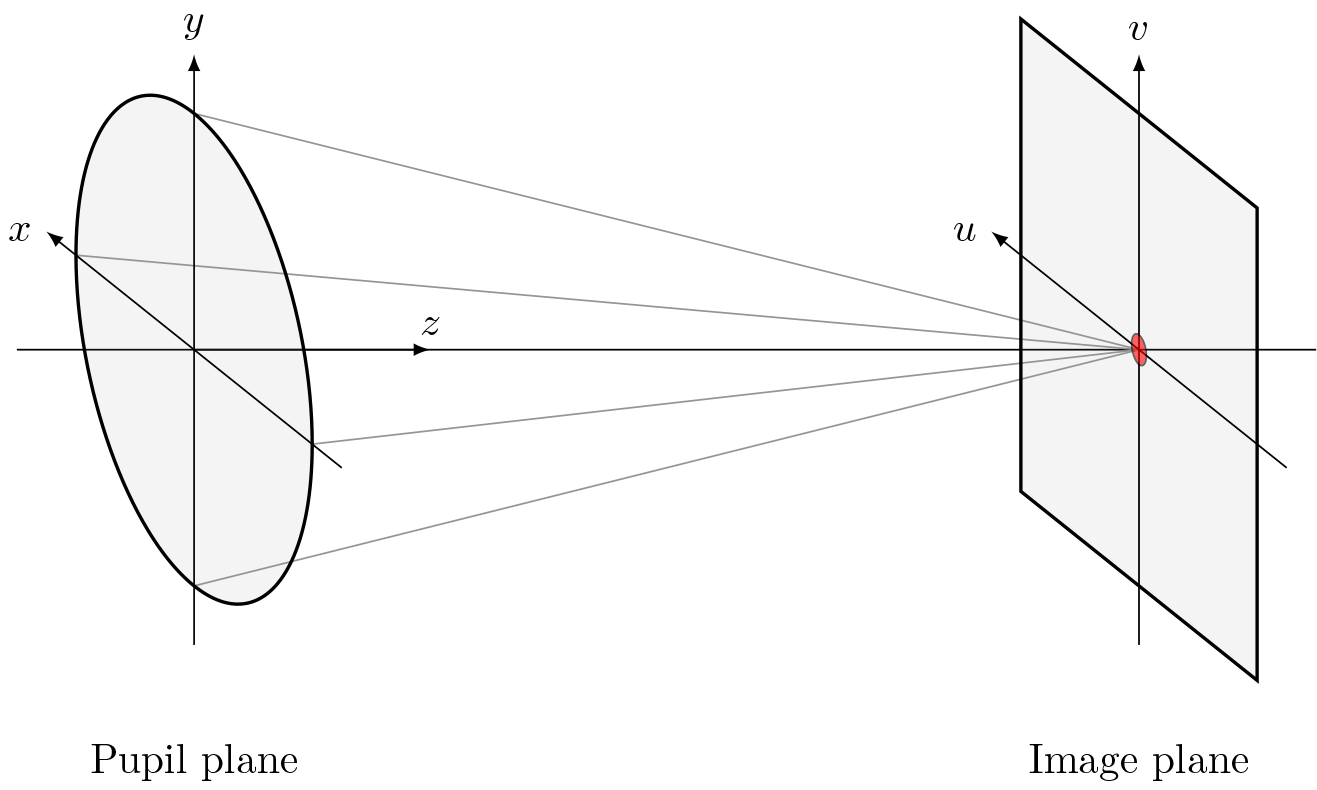
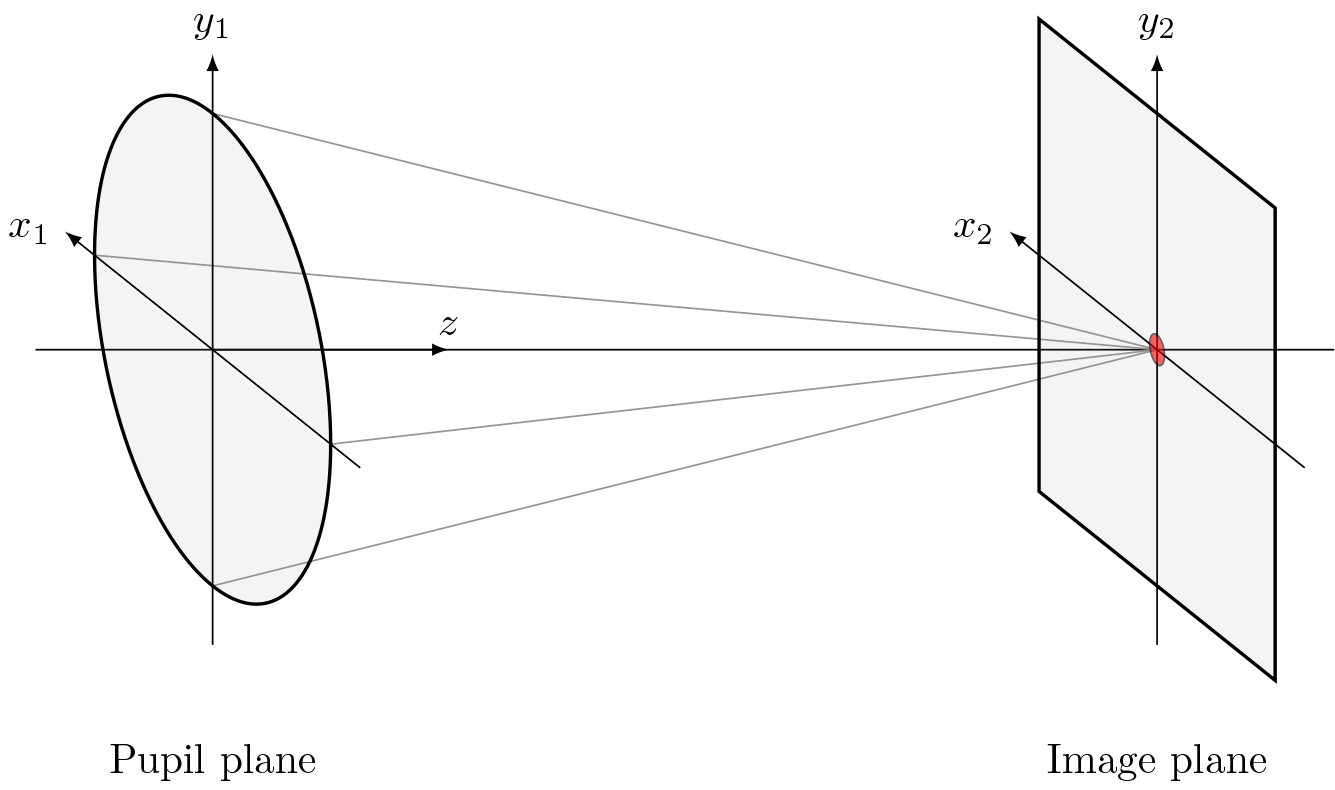
DOC: reorganize User Guide

diff --git a/docs/_img/tikz/coordinate_system.tex b/docs/_img/tikz/coordinate_system.tex
@@ -24,16 +24,16 @@
     \draw[color=gray] (0,2,0) -- (0,0,\zimg);
 
     \draw[thick, fill=gray, fill opacity=0.1] (0,0) circle [radius=2];
-    \draw[latex-] (-2.5,0,0) node [left] {$x$} -- (2.5,0,0);
-    \draw[-latex] (0,-2.5,0) -- (0,2.5,0) node [above] {$y$};
+    \draw[latex-] (-2.5,0,0) node [left] {$x_1$} -- (2.5,0,0);
+    \draw[-latex] (0,-2.5,0) -- (0,2.5,0) node [above] {$y_1$};
 
 
     \node [align=left] at (0,-3.5,0) {Pupil plane};
 
     % Observation plane
     \draw [thick,fill=gray,fill opacity=0.1] (-2,-2,\zimg) -- (2,-2,\zimg) -- (2,2,\zimg) -- (-2,2,\zimg) -- cycle;
-    \draw[latex-] (-2.5,0,\zimg) node [left] {$u$} -- (2.5,0,\zimg);
-    \draw[-latex] (0,-2.5,\zimg) -- (0,2.5,\zimg) node [above] {$v$};
+    \draw[latex-] (-2.5,0,\zimg) node [left] {$x_2$} -- (2.5,0,\zimg);
+    \draw[-latex] (0,-2.5,\zimg) -- (0,2.5,\zimg) node [above] {$y_2$};
 
     \node [align=center] at (0,-3.5,\zimg) {Image plane};
 

diff --git a/docs/user_guide/image_sensors/imaging_artifacts.rst b/docs/user_guide/image_sensors/imaging_artifacts.rst
@@ -4,19 +4,19 @@ Imaging Artifacts
 
 .. currentmodule:: lentil
 
-Lentil's :ref:`convolvable module <api-convolvable>` contains methods for applying various imaging 
-artifacts via convolution. 
+Lentil's :ref:`convolvable module <api-convolvable>` contains methods for applying various imaging
+artifacts via convolution.
 
 .. note::
 
-    To ensure accuracy and avoid introducing ailiasing artifacts, the input data should 
+    To ensure accuracy and avoid introducing ailiasing artifacts, the input data should
     be at least Nyquist sampled.
 
 Smear
 =====
 Smear is used to represent image motion with a relatively low temporal frequency relative
 to integration time. The motion occurs in a slowly varying or fixed direction over one
-integration time. Lentil's :func:`convolvable.smear` method represents smear as a linear 
+integration time. Lentil's :func:`convolvable.smear` method represents smear as a linear
 directional blur over some distance (or number of pixels):
 
 .. code:: pycon
@@ -24,8 +24,8 @@ directional blur over some distance (or number of pixels):
     >>> import lentil
     >>> import matplotlib.pyplot as plt
     >>> psf = ...  # PSF calculation details omitted
-    >>> psf_smear = lentil.convolvable.smear(psf, distance=5e-5, 
-    ...                                      pixelscale=5e-6, 
+    >>> psf_smear = lentil.convolvable.smear(psf, distance=5e-5,
+    ...                                      pixelscale=5e-6,
     ...                                      oversample=3)
     >>> plt.subplot(121), plt.imshow(psf)
     >>> plt.subplot(122), plt.imshow(psf_smear)
@@ -69,7 +69,7 @@ is called, but a static direction can optionally be specified as needed:
 Jitter
 ======
 Jitter is used to represent image motion with a relatively high temporal frequency relative
-to integration time. Lentil's :func:`convolvable.jitter` method represents jitter with a 
+to integration time. Lentil's :func:`convolvable.jitter` method represents jitter with a
 Gaussian blur operation. Note this approach is only valid if the motion occurs randomly in all
 directions during one integration time.
 
@@ -86,7 +86,7 @@ directions during one integration time.
     :width: 500px
 
 If the jitter direction is not sufficiently random during a typical integration time, a timeseries
-should be used instead. Note this will have a major impact on propagation performance but will 
+should be used instead. Note this will have a major impact on propagation performance but will
 provide the most accurate results.
 
 Pixel MTF
@@ -95,8 +95,8 @@ A focal plane array samples a continuous light field to produce a digital image.
 Lentil models diffraction numerically by propagating a finite set of points through an
 optical system, the discretely sampled image plane intensity must be convolved with the
 pixel's aperture function to accurately represent the intensity signal seen by each
-pixel. Lentil's :func:`convolvable.pixel` method implements this convolution. 
-After convolving the image plane intensity with the pixel MTF, the data should be 
+pixel. Lentil's :func:`convolvable.pixel` method implements this convolution.
+After convolving the image plane intensity with the pixel MTF, the data should be
 resampled to native detector sampling using :func:`util.rescale`. The
 :func:`detector.pixelate` method combines the convolution and resampling operations
 into a single method.

diff --git a/docs/user_guide/optical_systems/coordinate_system.rst b/docs/user_guide/optical_systems/coordinate_system.rst
@@ -5,8 +5,8 @@ Coordinate System
 .. |Pupil| replace:: :class:`~lentil.Pupil`
 .. |Image| replace:: :class:`~lentil.Image`
 
-Lentil adopts the widely used convention of aligning the z-axis along the direction 
-of light propagation through an optical system. By the right hand rule, it follows that 
+Lentil adopts the widely used convention of aligning the z-axis along the direction
+of light propagation through an optical system. By the right hand rule, it follows that
 the remaining axes are oriented as shown in the figure below:
 
 .. image:: /_static/img/coordinate_system.png
@@ -28,9 +28,10 @@ positive x-axis pointing to the right and the positive y-axis pointing up.
     :width: 700px
     :align: center
 
-Note that Matplotlib's ``imshow()`` method (and MATLAB's ``imagesc()`` method) places the
-origin in the upper left corner of the plotted image by default. This doesn't necessarily 
-present a problem as long as results are consistently plotted "incorrectly", but to be 
-completely correct (particularly when comparing model-generated images against intuition 
-or measured data) the origin should be located in the lower left corner of the displayed 
-image.
+Note that Matplotlib's ``imshow()`` method (and MATLAB's ``imagesc()`` method) places
+the origin in the upper left corner of the plotted image by default. The result is that
+the direction of y-axis is flipped relative to Lentil's coordinate system. This doesn't
+necessarily present a problem as long as results are consistently plotted "incorrectly",
+but to be completely correct (particularly when comparing model-generated images against
+intuition or measured data) the origin should be located in the lower left corner of the
+displayed image.

diff --git a/docs/user_guide/image_sensors/noise.rst b/docs/user_guide/image_sensors/noise.rst
@@ -1,0 +1,30 @@
+*****
+Noise
+*****
+
+* Shot noise due to randomness in the arrival and detection of photons
+* The conversion of photons into electrons (quantum efficiency)
+* Dark current due to thermally generated electrons inside each pixel
+* Spatial nonuniformity due to variations in detector pixels and electronics
+* Noise generated by the electronics which read out the pixel values
+* Pixel defects like hot or dead pixels, and other imaging artifacts like cosmic ray
+  strikes
+
+
+The signal can be split into two primary groups:
+
+* A light signal representing the irrandiance (photons/s/px) presented to the detector.
+  Note that the light signal represents **all** sources of photon flux which may include
+  near field (self-emission) contributions in addition to the scene being observed.
+* A dark signal representing all other sources of electrons present in the detector that
+  aren't due to the light signal. These sources include thermally generated dark current
+  and any voltage offsets.
+
+Various noise sources also contribute to the eventual digital signal read out by the
+detector. These noise sources can be broadly classified into two groups:
+
+* Fixed-pattern noise is time-invariant and does not change from frame to frame. Fixed
+  pattern noise can be thought of as a characteristic of the detector
+* Temporal noise varies from frame to frame and typically represents random processes in t
+  he detection and readout of an image
+

diff --git a/docs/user_guide/image_sensors/signal.rst b/docs/user_guide/image_sensors/signal.rst
@@ -1,0 +1,39 @@
+***********
+Signal flow
+***********
+
+An image sensor converts photons striking a pixel into a digital signal. The signal
+produced by each pixel is subject to a number of physical characteristics and is
+degraded by a variety of noise sources. The core components of this process are
+represented in the figure below:
+
+.. image:: /_static/img/image_sensor_signal_flow.png
+    :width: 75%
+
+
+Photons striking a pixel during an integration time will result in the accumulation of
+electrons in the pixel well. The fraction of photons striking a pixel that are collected
+as electrons is the sensor's *quantum efficiency* (QE). Additional electrons "leaking"
+into each pixel are represented as *dark signal*. The electrons collected in each pixel
+during an integration time are converted to a voltage (up to some saturation point),
+amplified, and converted to a digital signal by an ADC. Additional noise generated
+during the readout and conversion of the analog signal is represented as *read noise*.
+
+This is a somewhat simplistic model of a digital image sensor but it provides the
+framework for capturing the majority of physical effects and noise sources present and
+is easily extended to capture more complex and nuanced effects.
+
+Input signal
+============
+
+Charge collection
+=================
+
+
+Pixel effects
+=============
+
+
+Analog to digital conversion
+============================
+

diff --git a/docs/user_guide/index.rst b/docs/user_guide/index.rst
@@ -1,9 +1,23 @@
+.. _user-guide:
+
 **********
 User Guide
 **********
 
-The User Guide provides documentation for all of Lentil organized by topic area. Each
-section introduces a topic and discusses how Lentil approaches the subject.
+.. describing optical systems
+..    planes
+..    coordinate system
+..    wavefront errors
+.. modeling diffraction
+.. radiometry
+.. image sensors (incl. image artifacts)
+.. model patterns
+.. optimizing performance
+.. external interfaces
+.. algorithm verification
+
+The User Guide provides documentation for all of Lentil's features and capabilities. It
+is generally organized by topic area.
 
 Brand new users should start with the :ref:`package-overview` and :ref:`tutorial`.
 
@@ -21,14 +35,11 @@ Detailed information on any specific class or method can be found in the :ref:`a
 .. toctree::
     :maxdepth: 2
 
-    planes
+    optical_systems/index
     diffraction
-    wavefront_error
-    coordinate_system
     radiometry
-    image_sensors
-    imaging_artifacts
+    image_sensors/index
     ../patterns/index
-    performance    
+    performance
     external/index
     verification/index

diff --git a/docs/getting_started/next_steps.rst b/docs/getting_started/next_steps.rst
@@ -1,0 +1,25 @@
+.. _next-steps:
+
+**********
+Next steps
+**********
+
+The :ref:`user-guide` provides comprehensive documentation for all of Lentil's features
+and capabilities. It is generally organized around topic areas, with the following
+subjects being particularly useful for newcomers:
+
+* The section on :ref:`user-guide.optical-planes` describes
+* Modeling Diffraction
+* Model Patterns
+
+
+
+The :ref:`api` provides a detailed description of the Lentil API syntax. It gives
+specifics on how to use Lentil's classes and functions (parameter names and types,
+method names and returns, etc.) This reference documentation assumes a general
+understanding of how to use Lentil.
+
+The :ref:`development` guide gives information on working with Lentil's source code and
+contributing to the library. It also has a section on :ref:`technical-notes` which
+provides in-depth discussion of the technical implementation of some of Lentil's more
+complicated or novel features.

diff --git a/docs/user_guide/image_sensors/index.rst b/docs/user_guide/image_sensors/index.rst
@@ -1,0 +1,13 @@
+*************
+Image Sensors
+*************
+Lentil does not provide an end-to-end detector modeling capability, but instead provides
+a collection of functions in the :ref:`detector module<api-detector>` to help model image
+sensors and represent some of the more commonly encountered noise sources:
+
+.. toctree::
+    :maxdepth: 2
+
+    signal
+    noise
+    imaging_artifacts

diff --git a/docs/dev/index.rst b/docs/dev/index.rst
@@ -1,3 +1,5 @@
+.. _development:
+
 ***********
 Development
 ***********
@@ -9,10 +11,10 @@ Development
 
 .. toctree::
     :maxdepth: 3
-    
+
     tech_notes/index
 
 .. toctree::
     :maxdepth: 1
-    
-    changes 
+
+    changes

diff --git a/docs/user_guide/optical_systems/index.rst b/docs/user_guide/optical_systems/index.rst
@@ -1,0 +1,13 @@
+
+**************************
+Describing Optical Systems
+**************************
+
+.. toctree::
+    :maxdepth: 2
+
+    overview
+    coordinate_system
+    planes
+    wavefront_error
+    examples

diff --git a/docs/user_guide/optical_systems/overview.rst b/docs/user_guide/optical_systems/overview.rst
@@ -1,0 +1,6 @@
+********
+Overview
+********
+
+Lentil uses Fourier optics to model the propagation of electromagnetic waves through an
+optical system.

diff --git a/docs/user_guide/optical_systems/planes.rst b/docs/user_guide/optical_systems/planes.rst
@@ -1,3 +1,5 @@
+.. _user-guide.optical-planes:
+
 **************
 Optical Planes
 **************
